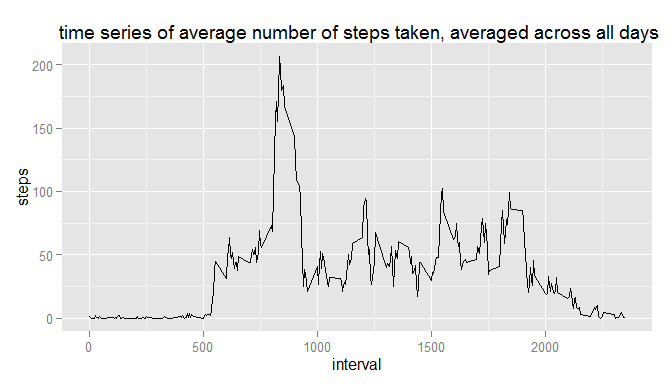
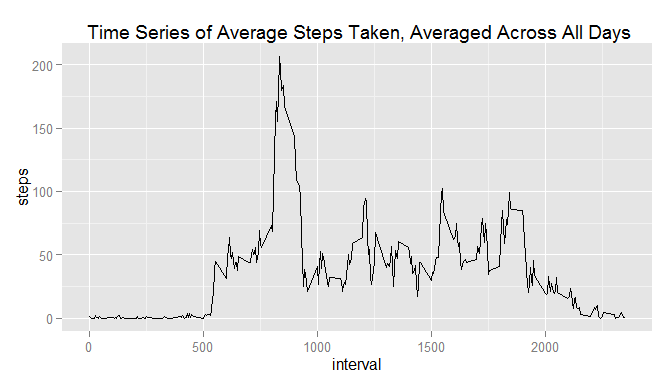
finished

Changed region(s): [[0.0625, 0.0625, 1.0, 0.125]]

diff --git a/PA1_template.html b/PA1_template.html
@@ -65,13 +65,14 @@ data &lt;- transform(data, date = as.POSIXct(date))</code></pre>
 </div>
 <div id="what-is-mean-total-number-of-steps-taken-per-day" class="section level2">
 <h2>What is mean total number of steps taken per day?</h2>
-<pre class="r"><code>sumpd&lt;-tapply(data$steps, data$date, sum)
+<pre class="r"><code>sumpd &lt;-tapply(data$steps, data$date, sum)
 sumpd &lt;- data.frame(date=names(sumpd),steps = sumpd,row.names=NULL)
-sumpd  &lt;- transform(sumpd , date = as.POSIXct(date))
+sumpd &lt;- transform(sumpd , date = as.POSIXct(date))
 par(mar = c(5, 4, 1, 1),las =1)
 qplot(date,steps,data = sumpd,geom = &quot;histogram&quot;,stat=&quot;identity&quot;,main = &quot;Histogram of Steps per Day&quot;)</code></pre>
 <pre><code>## Warning: Removed 8 rows containing missing values (position_stack).</code></pre>
[1 lines of base64/hex data omitted]
+<p>Report the mean and median of the total number of steps taken per day</p>
 <pre class="r"><code>mean(sumpd$steps,na.rm= TRUE)</code></pre>
 <pre><code>## [1] 10766.19</code></pre>
 <pre class="r"><code>median(sumpd$steps, na.rm = TRUE)</code></pre>
@@ -79,23 +80,50 @@ qplot(date,steps,data = sumpd,geom = &quot;histogram&quot;,stat=&quot;identity&q
 </div>
 <div id="what-is-the-average-daily-activity-pattern" class="section level2">
 <h2>What is the average daily activity pattern?</h2>
-<pre class="r"><code>avgin&lt;-tapply(data$steps, data$interval, mean,na.rm = TRUE)
+<pre class="r"><code>avgin &lt;- tapply(data$steps, data$interval, mean,na.rm = TRUE)
 avgin &lt;- data.frame(interval=names(avgin),steps = avgin,row.names=NULL)
 par(mar = c(5, 4, 1, 1),las =1)
-qplot(interval,steps,data=data,geom = &quot;line&quot;,stat=&quot;summary&quot;,fun.y = &quot;mean&quot;,main =&quot; time series of average number of steps taken, averaged across all days&quot;)</code></pre>
+qplot(interval,steps,data=data,geom = &quot;line&quot;,stat=&quot;summary&quot;,fun.y = &quot;mean&quot;,main =&quot; Time Series of Average Steps Taken, Averaged Across All Days&quot;)</code></pre>
 <pre><code>## Warning: Removed 2304 rows containing missing values (stat_summary).</code></pre>
[1 lines of base64/hex data omitted]
-<p>This is the max average number of steps in 5-minute interval.</p>
[1 lines of base64/hex data omitted]
+<p>This is the max average number of steps and interval in 5-minute interval.</p>
 <pre class="r"><code>max(avgin$steps)</code></pre>
 <pre><code>## [1] 206.1698</code></pre>
+<pre class="r"><code>names(which.max(avgin$steps))</code></pre>
+<pre><code>## [1] &quot;835&quot;</code></pre>
 <pre class="r"><code>mas &lt;- names(which.max(avgin$steps))</code></pre>
-<p>835 in 5-minute interval contains the maximum number of steps on average across all the days in the dataset.</p>
+<p>835 minute in 5-minute interval contains the maximum number of steps on average across all the days in the dataset.</p>
 </div>
 <div id="imputing-missing-values" class="section level2">
 <h2>Imputing missing values</h2>
+<p>Calculate and report the total number of missing values in the dataset.</p>
+<pre class="r"><code>sum(is.na(data))</code></pre>
+<pre><code>## [1] 2304</code></pre>
+<p>Provide the mean for that 5-minute interval to missing values in the dataset. Plot histogram with filled missing values.</p>
+<pre class="r"><code>ndata&lt;-merge(data,avgin,by = &quot;interval&quot;)
+ndata$steps.x[is.na(ndata$steps.x)]&lt;-ndata$steps.y[is.na(ndata$steps.x)]
+ndata&lt;-ndata[ order(ndata[,3]),]
+par(mar = c(5, 4, 1, 1),las =1)
+qplot(date,steps.x,data = ndata,geom = &quot;histogram&quot;,stat=&quot;summary&quot;,fun.y = &quot;mean&quot;,main = &quot;Histogram of Steps per Day&quot;)</code></pre>
[1 lines of base64/hex data omitted]
+<p>Report the mean and median of the total number of steps taken per day with filled missing values.</p>
+<pre class="r"><code>nsumpd&lt;-tapply(ndata$steps.x, ndata$date,sum)
+nsumpd &lt;- data.frame(date=names(nsumpd),steps = nsumpd,row.names=NULL)
+mean(nsumpd$steps)</code></pre>
+<pre><code>## [1] 10766.19</code></pre>
+<pre class="r"><code>median(nsumpd$steps)</code></pre>
+<pre><code>## [1] 10766.19</code></pre>
+<p>The impact of imputing missing data: By imputing missing data, the median differs from the estimates from the first part of the assignment, but the mean keeps same.</p>
 </div>
 <div id="are-there-differences-in-activity-patterns-between-weekdays-and-weekends" class="section level2">
 <h2>Are there differences in activity patterns between weekdays and weekends?</h2>
+<pre class="r"><code>ndata$weekday&lt;-weekdays(ndata$date)
+ndata$weekday&lt;- ifelse(ndata$weekday %in% c(&quot;Saturday&quot;, &quot;Sunday&quot;), &quot;weekend&quot;, &quot;weekday&quot;)
+par(mar = c(5, 4, 1, 1),las =1)
+qplot(interval,steps.x,data=ndata,geom = &quot;line&quot;,stat=&quot;summary&quot;,fun.y = &quot;mean&quot;,main =&quot; Time Series of Average Steps Taken, Averaged Across All Days&quot;,facets = .~
+weekday)+facet_wrap(~weekday,nrow = 2)</code></pre>
[1 lines of base64/hex data omitted]
+<p>The weekday steps apparently gather in certain part of interval. The weekend steps separate in many interval.</p>
 </div>
 
 

diff --git a/PA1_template.md b/PA1_template.md
@@ -19,9 +19,9 @@ data <- transform(data, date = as.POSIXct(date))
 ## What is mean total number of steps taken per day?
 
 ```r
-sumpd<-tapply(data$steps, data$date, sum)
+sumpd <-tapply(data$steps, data$date, sum)
 sumpd <- data.frame(date=names(sumpd),steps = sumpd,row.names=NULL)
-sumpd  <- transform(sumpd , date = as.POSIXct(date))
+sumpd <- transform(sumpd , date = as.POSIXct(date))
 par(mar = c(5, 4, 1, 1),las =1)
 qplot(date,steps,data = sumpd,geom = "histogram",stat="identity",main = "Histogram of Steps per Day")
 ```
@@ -31,6 +31,9 @@ qplot(date,steps,data = sumpd,geom = "histogram",stat="identity",main = "Histogr
 ```
 
 ![](PA1_template_files/figure-html/histogram-1.png) 
+
+Report the mean and median of the total number of steps taken per day
+
 
 ```r
 mean(sumpd$steps,na.rm= TRUE)
@@ -52,10 +55,10 @@ median(sumpd$steps, na.rm = TRUE)
 ## What is the average daily activity pattern?
 
 ```r
-avgin<-tapply(data$steps, data$interval, mean,na.rm = TRUE)
+avgin <- tapply(data$steps, data$interval, mean,na.rm = TRUE)
 avgin <- data.frame(interval=names(avgin),steps = avgin,row.names=NULL)
 par(mar = c(5, 4, 1, 1),las =1)
-qplot(interval,steps,data=data,geom = "line",stat="summary",fun.y = "mean",main =" time series of average number of steps taken, averaged across all days")
+qplot(interval,steps,data=data,geom = "line",stat="summary",fun.y = "mean",main =" Time Series of Average Steps Taken, Averaged Across All Days")
 ```
 
 ```
@@ -64,7 +67,7 @@ qplot(interval,steps,data=data,geom = "line",stat="summary",fun.y = "mean",main 
 
 ![](PA1_template_files/figure-html/timeseries-1.png) 
 
-This is the max average number of steps in 5-minute interval.
+This is the max average number of steps and interval in 5-minute interval.
 
 ```r
 max(avgin$steps)
@@ -77,12 +80,80 @@ max(avgin$steps)
 
 
 ```r
+names(which.max(avgin$steps))
+```
+
+```
+## [1] "835"
+```
+
+```r
 mas <- names(which.max(avgin$steps))
 ```
-835 in 5-minute interval contains the maximum number of steps on average across all the days in the dataset.
+835 minute in 5-minute interval contains the maximum number of steps on average across all the days in the dataset.
 
 ## Imputing missing values
 
+Calculate and report the total number of missing values in the dataset.
 
+```r
+sum(is.na(data))
+```
+
+```
+## [1] 2304
+```
+
+Provide the mean for that 5-minute interval to missing values in the dataset.
+Plot histogram with filled missing values.
+
+```r
+ndata<-merge(data,avgin,by = "interval")
+ndata$steps.x[is.na(ndata$steps.x)]<-ndata$steps.y[is.na(ndata$steps.x)]
+ndata<-ndata[ order(ndata[,3]),]
+par(mar = c(5, 4, 1, 1),las =1)
+qplot(date,steps.x,data = ndata,geom = "histogram",stat="summary",fun.y = "mean",main = "Histogram of Steps per Day")
+```
+
+![](PA1_template_files/figure-html/nafix-1.png) 
+
+Report the mean and median of the total number of steps taken per day with filled missing values.
+
+
+```r
+nsumpd<-tapply(ndata$steps.x, ndata$date,sum)
+nsumpd <- data.frame(date=names(nsumpd),steps = nsumpd,row.names=NULL)
+mean(nsumpd$steps)
+```
+
+```
+## [1] 10766.19
+```
+
+```r
+median(nsumpd$steps)
+```
+
+```
+## [1] 10766.19
+```
+The impact of imputing missing data:
+By imputing missing data, 
+the median differs from the estimates from the first part of the assignment, 
+but the mean keeps same.
 
 ## Are there differences in activity patterns between weekdays and weekends?
+
+```r
+ndata$weekday<-weekdays(ndata$date)
+ndata$weekday<- ifelse(ndata$weekday %in% c("Saturday", "Sunday"), "weekend", "weekday")
+par(mar = c(5, 4, 1, 1),las =1)
+qplot(interval,steps.x,data=ndata,geom = "line",stat="summary",fun.y = "mean",main =" Time Series of Average Steps Taken, Averaged Across All Days",facets = .~
+weekday)+facet_wrap(~weekday,nrow = 2)
+```
+
+![](PA1_template_files/figure-html/plot-1.png) 
+
+The weekday steps apparently gather in certain part of interval.
+The weekend steps separate in many interval.
+
